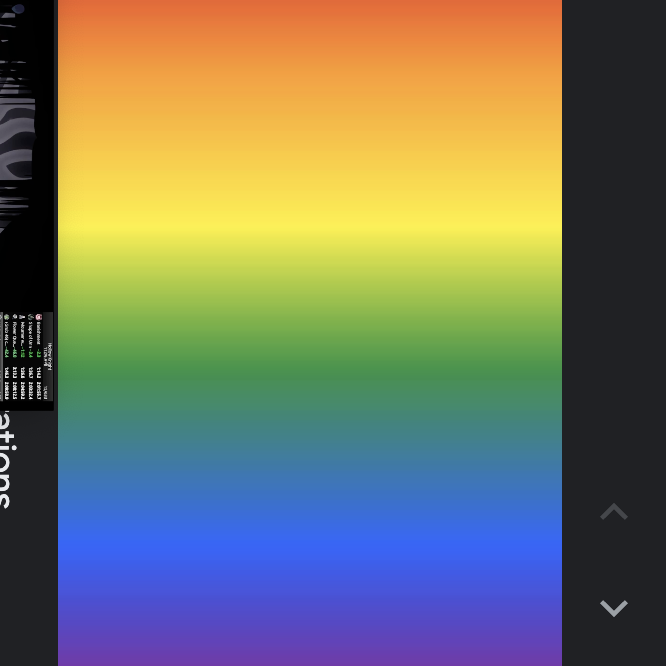
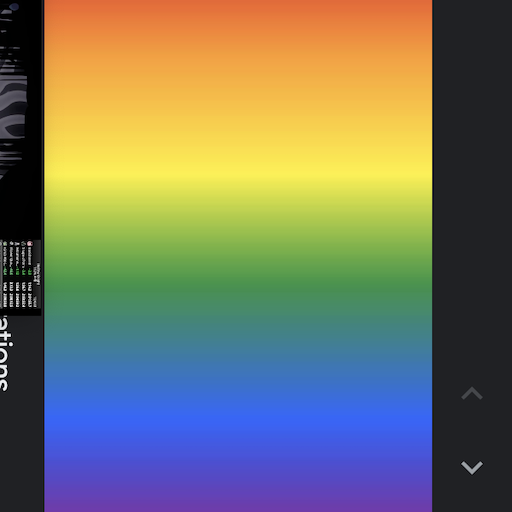
get uvs and image textures working

Changed region(s): [[0.0, 0.4688, 0.0938, 0.75], [0.0625, 0.0, 0.0938, 0.4688], [0.0625, 0.7188, 0.0938, 0.9688]]

diff --git a/load_gltf.h b/load_gltf.h
@@ -1,10 +1,5 @@
 #ifndef LOAD_GLTF_H
 #define LOAD_GLTF_H
-#define TINYGLTF_IMPLEMENTATION
-#define STB_IMAGE_IMPLEMENTATION
-
-#define STB_IMAGE_WRITE_IMPLEMENTATION
-#include "gltf/tiny_gltf.h"
 
 #include <memory>
 #include "vec3.h"
@@ -47,9 +42,32 @@ int add_gltf_to_world(hittable_list &world, Model model)
       auto normal_buffer_view = model.bufferViews[normal_accessor.bufferView];
       auto normal_buffer = model.buffers[normal_buffer_view.buffer];
       float *normals = reinterpret_cast<float *>(&normal_buffer.data[normal_buffer_view.byteOffset + normal_accessor.byteOffset]);
-      // auto base_color = model.materials[primitive.material].pbrMetallicRoughness.baseColorFactor;
-      // auto material = make_shared<lambertian>(color(base_color[0], base_color[1], base_color[2]));
-      auto material = make_shared<lambertian>(color(0.5, 0.5, 0.5));
+
+      auto uv_accessor = model.accessors[primitive.attributes["TEXCOORD_0"]];
+      auto uv_buffer_view = model.bufferViews[uv_accessor.bufferView];
+      auto uv_buffer = model.buffers[uv_buffer_view.buffer];
+      float *uvs = reinterpret_cast<float *>(&uv_buffer.data[uv_buffer_view.byteOffset + uv_accessor.byteOffset]);
+      shared_ptr<material> material;
+      if (primitive.material < 0)
+      {
+        material = white;
+      }
+      else
+      {
+        auto pbr = model.materials[primitive.material].pbrMetallicRoughness;
+        if (pbr.baseColorTexture.index >= 0)
+        {
+          // std::cout << "Using image texture for model named " << mesh.name << std::endl;
+          int tex_index = pbr.baseColorTexture.index;
+          auto image = model.images[model.textures[tex_index].source];
+          material = make_shared<lambertian>(make_shared<image_texture>(image));
+        }
+        else
+        {
+          // std::cout << "Using base color factor for model named " << mesh.name << std::endl;
+          material = make_shared<lambertian>(color(pbr.baseColorFactor[0], pbr.baseColorFactor[1], pbr.baseColorFactor[2]));
+        }
+      }
 
       for (int i = 0; i < index_accessor.count / 3; i++)
       {
@@ -78,7 +96,21 @@ int add_gltf_to_world(hittable_list &world, Model model)
         point3 pos_2 = point3(pos_2_y, -pos_2_x, pos_2_z);
         vec3 normal = vec3(-norm_x, norm_y, norm_z);
 
-        world.add(make_shared<tri>(pos_0, pos_1, pos_2, normal, material));
+        float pos_0_u = uvs[2 * tri_index_0 + 0];
+        float pos_0_v = uvs[2 * tri_index_0 + 1];
+        vec3 uv0 = vec3(pos_0_u, 1 - pos_0_v, 0);
+
+        float pos_1_u = uvs[2 * tri_index_1 + 0];
+        float pos_1_v = uvs[2 * tri_index_1 + 1];
+        vec3 uv1 = vec3(pos_1_u, 1 - pos_1_v, 0);
+
+        float pos_2_u = uvs[2 * tri_index_2 + 0];
+        float pos_2_v = uvs[2 * tri_index_2 + 1];
+        vec3 uv2 = vec3(pos_2_u, 1 - pos_2_v, 0);
+
+        // std::cout << "Adding triangle with pos_0: " << pos_0 << " pos_1: " << pos_1 << " pos_2: " << pos_2 << " uv0: " << uv0 << " uv1: " << uv1 << " uv2: " << uv2 << std::endl;
+
+        world.add(make_shared<tri>(pos_0, pos_1, pos_2, normal, uv0, uv1, uv2, material));
       }
     }
   }

diff --git a/texture.h b/texture.h
@@ -1,10 +1,17 @@
 #ifndef TEXTURE_H
 #define TEXTURE_H
+#define TINYGLTF_IMPLEMENTATION
+#define STB_IMAGE_IMPLEMENTATION
+
+#define STB_IMAGE_WRITE_IMPLEMENTATION
+#include "gltf/tiny_gltf.h"
 
 #include <memory>
 #include "color.h"
 #include <algorithm>
 // #include "rtw_stb_image.h"
+
+using namespace tinygltf;
 
 class texture
 {
@@ -54,31 +61,29 @@ private:
   std::shared_ptr<texture> odd;
 };
 
-// class image_texture : public texture
-// {
-// public:
-//   image_texture(const char *filename) : image(filename) {}
+class image_texture : public texture
+{
+public:
+  image_texture(Image image) : image(image) {}
 
-//   color value(double u, double v, const point3 &p) const override
-//   {
-//     if (image.height() <= 0)
-//     {
-//       return color(0, 1, 1);
-//     }
+  color value(double u, double v, const point3 &p) const override
+  {
+    u = interval(0, 1).clamp(u);
+    v = 1.0 - interval(0, 1).clamp(v); // flip v to be image coordinates
 
-//     u = interval(0, 1).clamp(u);
-//     v = 1.0 - interval(0, 1).clamp(v); // flip v to be image coordinates
+    int i = u * image.width;
+    int j = v * image.height;
+    int start_index = 4 * i + 4 * image.width * j;
+    double color_scale = 1.0 / 255.0;
+    double r = color_scale * image.image[start_index];
+    double g = color_scale * image.image[start_index + 1];
+    double b = color_scale * image.image[start_index + 2];
+    return color(r, g, b);
+  }
 
-//     int i = u * image.width();
-//     int j = v * image.height();
-//     auto pixel = image.pixel_data(i, j);
-//     double color_scale = 1.0 / 255.0;
-//     return color(color_scale * pixel[0], color_scale * pixel[1], color_scale * pixel[2]);
-//   }
-
-// private:
-//   rtw_image image;
-// };
+private:
+  Image image;
+};
 
 class noise_texture : public texture
 {

diff --git a/hittables/triangle.h b/hittables/triangle.h
@@ -11,8 +11,11 @@ public:
       const point3 &v2,
       const point3 &v3,
       const vec3 _normal,
+      const point3 &uv1,
+      const point3 &uv2,
+      const point3 &uv3,
       shared_ptr<material> material)
-      : v1(v1), v2(v2), v3(v3), material(material)
+      : v1(v1), v2(v2), v3(v3), uv1(uv1), uv2(uv2), uv3(uv3), material(material)
   {
     u = v2 - v1;
     v = v3 - v1;
@@ -60,9 +63,11 @@ public:
       return false;
 
     point3 intersection = r.at(t);
+    float wd = 1 - ud - vd;
+    vec3 uv = wd * uv1 + ud * uv2 + vd * uv3;
 
-    hit_record.u = ud;
-    hit_record.v = vd;
+    hit_record.u = uv.x();
+    hit_record.v = uv.y();
     hit_record.p = intersection;
     hit_record.t = t;
     hit_record.set_face_normal(r, normal);
@@ -77,6 +82,10 @@ private:
 
   vec3 u;
   vec3 v;
+
+  vec3 uv1;
+  vec3 uv2;
+  vec3 uv3;
 
   vec3 normal;
   double D;

diff --git a/Raytracer.cpp b/Raytracer.cpp
@@ -541,12 +541,12 @@ void triangles(int chunk)
     auto white = make_shared<lambertian>(.73);
 
     // Scalene on the ground
-    world.add(make_shared<tri>(
-        point3(0, 0, 0),
-        point3(1, 0, 1),
-        point3(.6, 0, .3),
-        vec3(0, 1, 0),
-        red));
+    // world.add(make_shared<tri>(
+    //     point3(0, 0, 0),
+    //     point3(1, 0, 1),
+    //     point3(.6, 0, .3),
+    //     vec3(0, 1, 0),
+    //     red));
 
     camera cam;
 
